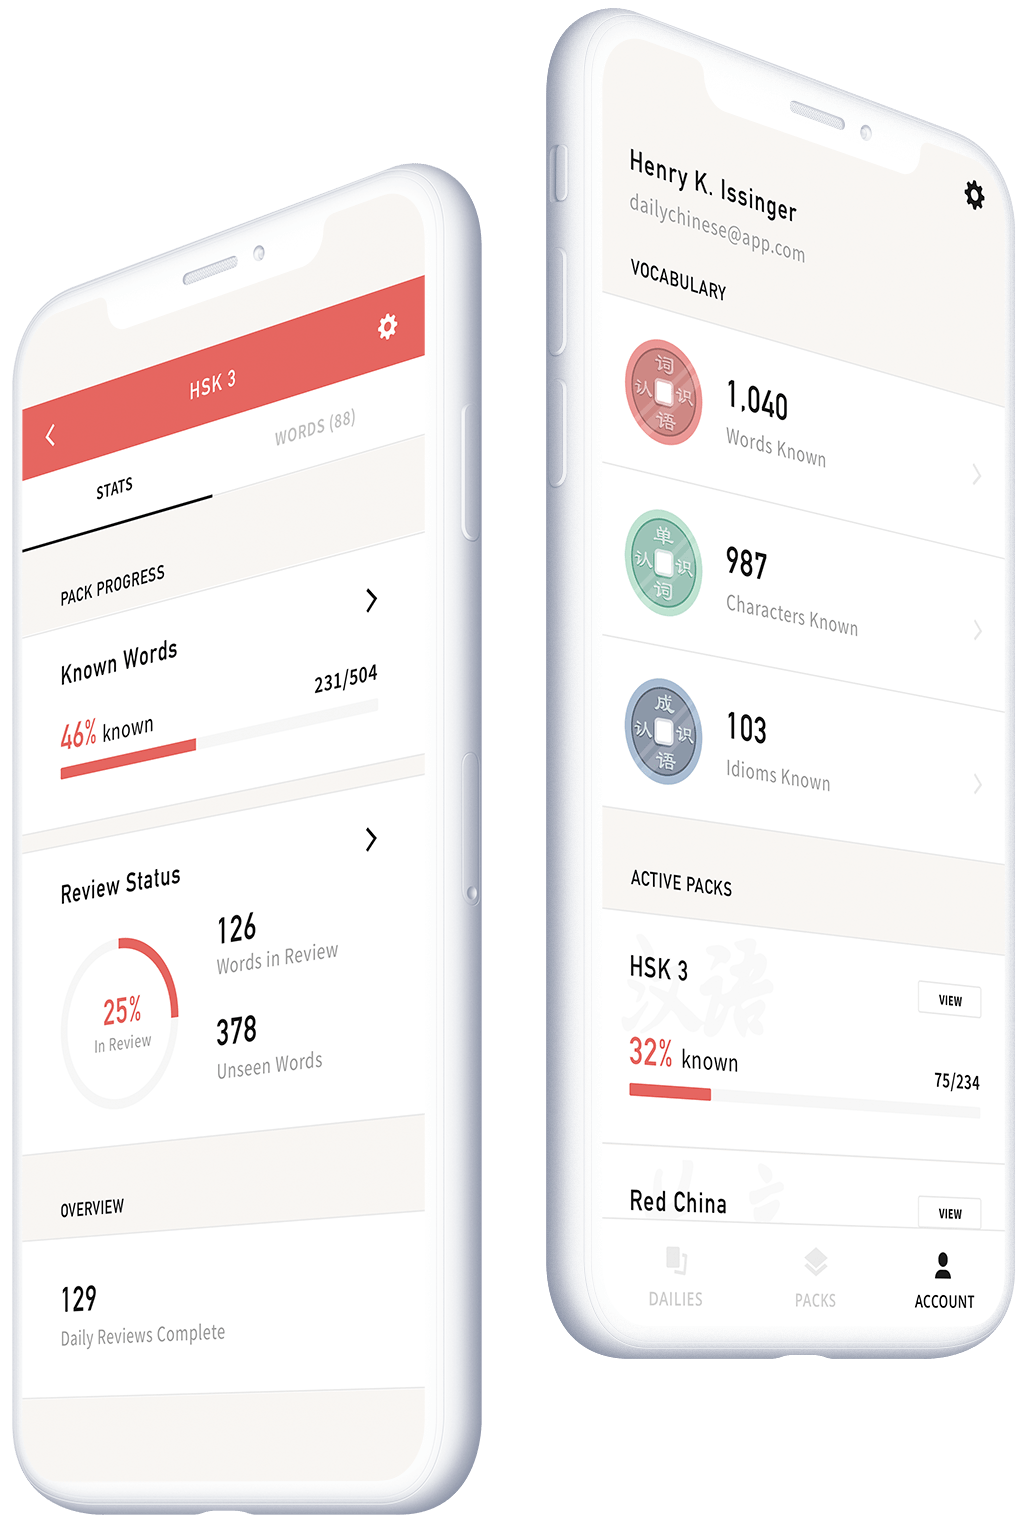
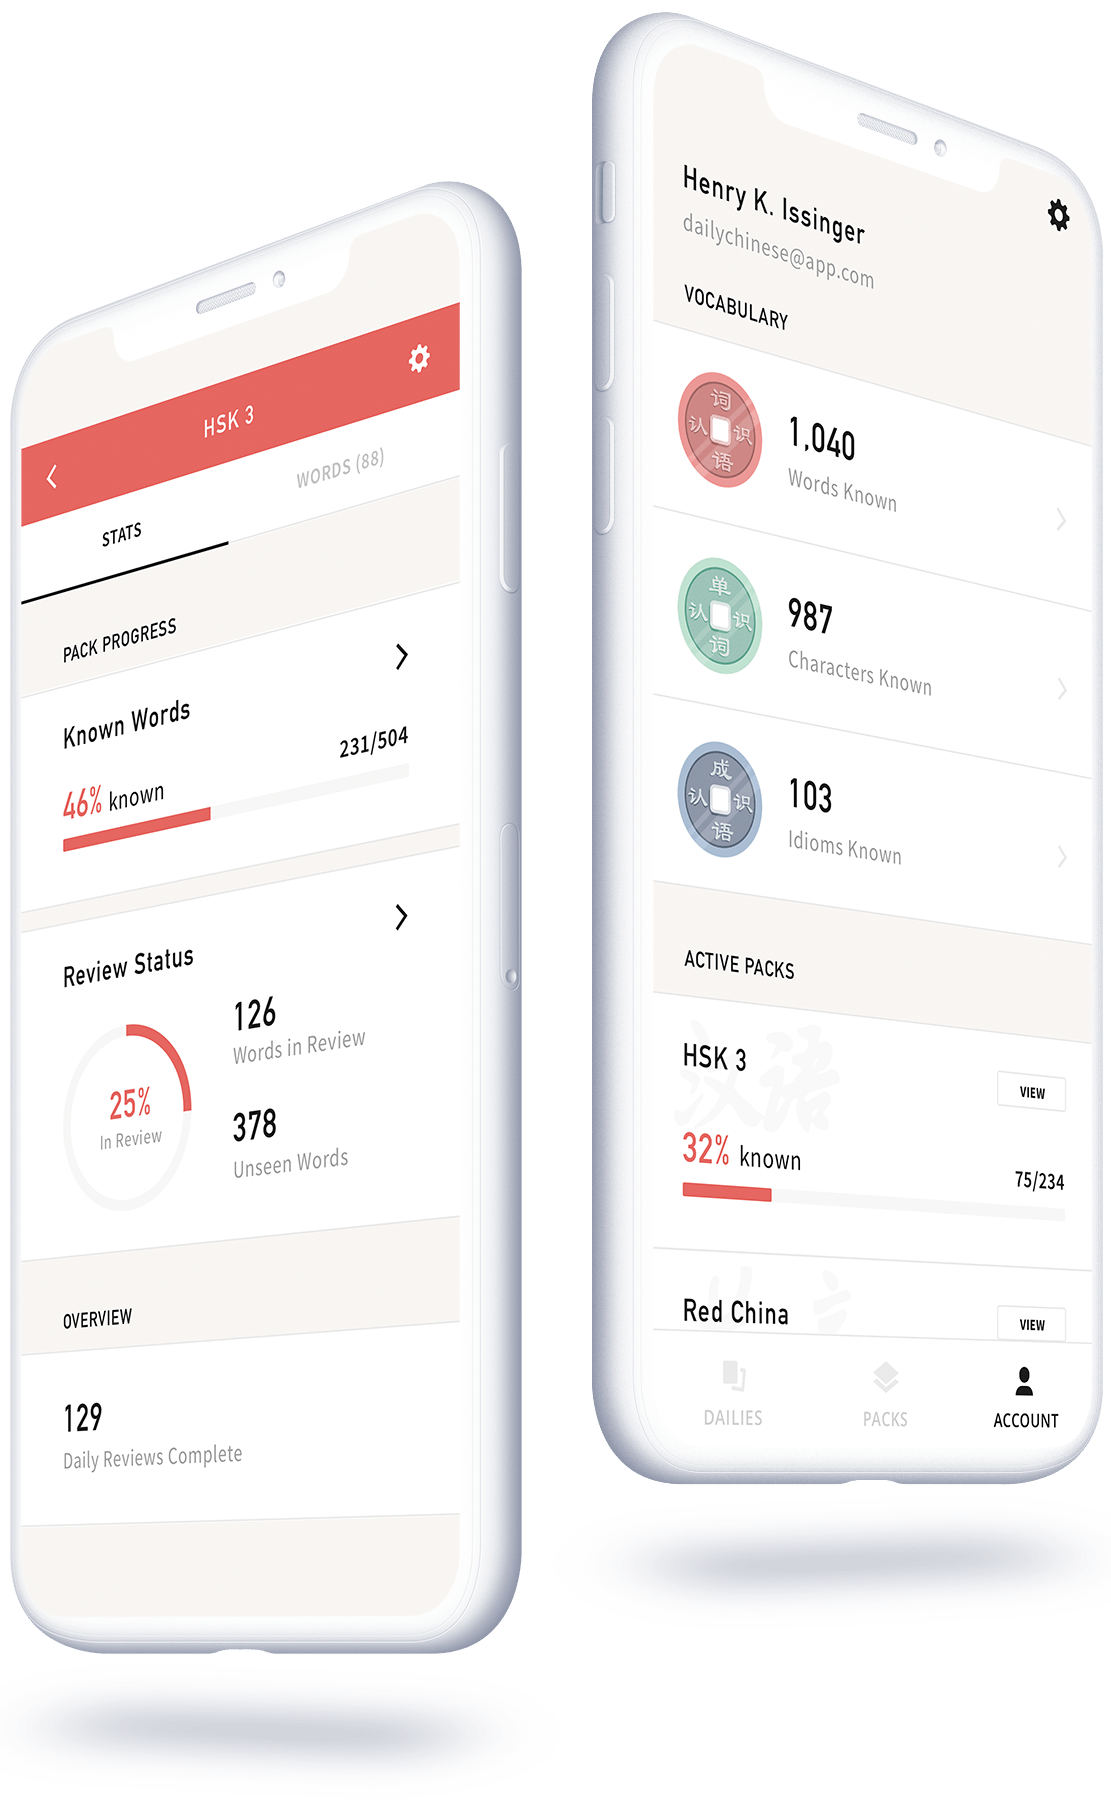
styling updates

diff --git a/index.html b/index.html
@@ -12,7 +12,7 @@
   <link rel="apple-touch-icon" href="icon.png">
   <!-- Place favicon.ico in the root directory -->
 
-  <link href="https://fonts.googleapis.com/css?family=Source+Sans+Pro" rel="stylesheet">
+  <link href="https://fonts.googleapis.com/css?family=Source+Sans+Pro:400,600" rel="stylesheet">
   <link rel="stylesheet" href="css/normalize.css">
   <link rel="stylesheet" href="css/main.css">
 </head>
@@ -30,10 +30,10 @@
       </header>
 
       <div class="copy-container">
-        <h1>Remember Chinese Characters Forever.</h1>
-        <p>Daily Chinese is a spaced-repetition, Chinese flashcard app that grows and tracks your vocabulary. Coming soon to both iOS and Android.</p>
+        <h1>Remember Chinese Characters Forever</h1>
+        <p>Daily Chinese is a spaced-repetition flashcard app that grows and tracks your Chinese vocabulary. Coming soon to both iOS and Android.</p>
         <a class="button" href="https://goo.gl/forms/OT01ZHoq39do9Far1" target="_blank">
-          Get Notified
+          Get Launch Email
       </a>
       </div>
 
@@ -46,41 +46,41 @@
   <!-- Description Section -->
   <section id="description" class="secondary-background">
     <div class="description-container">
-      <div>
+      <div class="description-title-block">
         <h2 class="text-center">
-          The essential Chinese vocabulary learning tool.
+          The Essential Chinese Vocabulary Tool
         </h2>
         <hr>
       </div>
 
       <div class="description-row">       
         <div class="description-block">
-          <img src="img/onboard_1@2x.png" width="260px" alt="">
+          <img src="img/onboard_1@2x.png" width="290px" alt="">
           <h3 class="text-center">
             Create Daily Reviews
           </h3>
           <p class="text-center">
-            Add word packs to make daily reviews. Reviewing every day will quickly grow your vocabulary.
+            Generate daily reviews from expertly assembled vocabulary lists. No more wasting time making flashcard decks.
           </p>          
         </div>
 
         <div class="description-block">
-          <img src="img/onboard_2@2x.png" width="260px" alt="">
+          <img src="img/onboard_2@2x.png" width="290px" alt="">
           <h3 class="text-center">
-            Spaced Repetition Formula
+            Practice With Purpose
           </h3>
           <p class="text-center">
-            A spaced repetition system increases the time between being shown each word so you never forget what you learn.
+            A spaced-repetition formula guides your daily practice so that you never forget the characters you learn.
           </p>          
         </div>
 
         <div class="description-block">
-          <img src="img/onboard_3@2x.png" width="260px" alt="">
+          <img src="img/onboard_3@2x.png" width="290px" alt="">
           <h3 class="text-center">
-            Own Your Vocabulary
+            Track Your Progress
           </h3>
           <p class="text-center">
-            The words you learn are stored, giving you a living collection of your total Chinese vocabulary.
+            Watch your vocabulary grow as the words and idioms you memorize are added to your vocabulary collection.
           </p>          
         </div>
 
@@ -94,11 +94,12 @@
 
       <div class="pack-row">
         <div class="copy-container">
-          <h2>
-            Learn Anything.
+          <p class="subtitle">Word Packs</p>
+          <h2 class="description-title">
+            For Every Learner
           </h2>
           <p>
-            Start with the basics, prepare for the HSK, or discover Chinese Internet slang. Whatever you want to learn, we’ve got you covered.
+            Start with the basics, prepare for the HSK, or discover Chinese Internet slang. We have unique and helpful vocabulary lists that you won't find anywhere else. 
           </p>
         </div>
 
@@ -107,11 +108,12 @@
 
       <div class="vocab-row">
         <div class="copy-container right-align">
-          <h2>
-            Own Your Vocabulary.
+          <p class="subtitle">Progress Tracking</p>
+          <h2 class="description-title">
+            Own Your Vocabulary
           </h2>
           <p>
-            Complete reviews to add words to your vocabulary collection and get insights into your review performance. 
+            Collect words, characters, and idioms by completing daily reviews. Monitor your review progress and always know the size of your vocabulary.
           </p>
         </div>
 
@@ -124,18 +126,18 @@
 
   <!-- CTA Row -->
   <section id="cta-row" class="secondary-background">
-    <div class="section-container">
-      <div class="cta-copy-block text-center">
-        <h2 class="text-center">
-          Start Mastering Chinese Characters.
+    <div class="section-container position-relative">
+      <div class="cta-copy-block">
+        <h2>
+          Start Mastering Chinese Characters
         </h2>
-        <p class="text-center">Launching soon on both iOS and Android.</p>
+        <p>Coming soon to both iOS and Android.</p>
         <a class="button" href="https://goo.gl/forms/OT01ZHoq39do9Far1" target="_blank">
-          Get Notified
+          Get Launch Email
         </a>
-        <div>
-          <!-- CTA -->
-        </div>
+        
+        <img class="cta-character-img position-absolute" src="img/copy-characters.png" alt="Start">
+
       </div>
     </div>
   </section>

diff --git a/css/main.css b/css/main.css
@@ -69,16 +69,16 @@
     text-transform: uppercase;
     margin: auto;
     color: #ffffff;
-    -moz-box-shadow: 0px 20px 40px 0px rgba(26,26,26,0.2);
-    -webkit-box-shadow: 0px 20px 40px 0px rgba(26,26,26,0.2);
-    box-shadow: 0px 20px 40px 0px rgba(26,26,26,0.2);
+    -moz-box-shadow: 0px 20px 35px 0px rgba(26,26,26,0.35);
+    -webkit-box-shadow: 0px 20px 35px 0px rgba(26,26,26,0.35);
+    box-shadow: 0px 20px 35px 0px rgba(26,26,26,0.35);
     transition: all .25s ease-in-out;
   }
 
   .button:hover {
-    -moz-box-shadow: 0px 25px 50px 0px rgba(26,26,26,0.25);
-    -webkit-box-shadow: 0px 25px 50px 0px rgba(26,26,26,0.25);
-    box-shadow: 0px 25px 50px 0px rgba(26,26,26,0.25);
+    -moz-box-shadow: 0px 25px 40px 0px rgba(26,26,26,0.35);
+    -webkit-box-shadow: 0px 25px 40px 0px rgba(26,26,26,0.35);
+    box-shadow: 0px 25px 40px 0px rgba(26,26,26,0.35);
   }
 
   .primary-background {
@@ -87,8 +87,8 @@
 
   .secondary-background {
     background-color: #ffffff;
-    border-top: 1px solid #EAEAEA;
-    border-bottom: 1px solid #EAEAEA;
+    /*border-top: 1px solid #EAEAEA;
+    border-bottom: 1px solid #EAEAEA*/;
   }
 
   .dark-background {
@@ -146,7 +146,7 @@
    ========================================================================== */
 
    .hero-section {
-    padding-bottom: 300px;
+    padding-bottom: 280px;
     overflow: hidden;
 
   }
@@ -162,7 +162,7 @@
   .hero-img-small {
     width: 1200px;
     bottom: -130px;
-    left: -290px;
+    right: -500px;
   }
 
   .hero-img-wide {
@@ -173,13 +173,14 @@
 
     .hero-section {
       overflow: visible;
+      padding-bottom: 310px;
     }
 
     .hero-section > .copy-container {
-      margin-top: 140px;
+      margin-top: 150px;
     }
 
-    .hero-section > .copy-container > a {
+    .hero-section > .copy-container > .button {
       margin-top: 20px
     }
 
@@ -188,9 +189,9 @@
     }
 
     .hero-img-wide {
-      width: 1100px;
-      bottom: -70px;
-      left: 450px;
+      width: 800px;
+      bottom: 15px;
+      left: 430px;
       display: block;
     }
 
@@ -203,7 +204,7 @@
    .description-container {
     margin: 0 auto;
     padding: 60px 2% 60px 2%;
-    max-width: 1200px;
+    max-width: 1300px;
   }
 
   .description-block {
@@ -215,6 +216,10 @@
     margin: 0 auto;
   }
 
+  .description-title-block > h2 {
+    margin-bottom: 16px;
+  }
+
   .description-block > h3 {
     margin-top: 30px;
     margin-bottom: 0;
@@ -224,6 +229,7 @@
     margin-top: 12px;
     color: #A0A0A0;
   }
+
 
   @media (min-width: 1000px) {
 
@@ -244,6 +250,10 @@
      max-width: 340px;
    }
 
+   .description-block > h3 {
+    margin-top: 42px;
+  }
+
  }
 
  @media (min-width: 800px) {
@@ -257,7 +267,7 @@
    ========================================================================== */
 
    .pack-row > .copy-container {
-    margin-bottom: 30px;
+    margin-bottom: 40px;
   }
 
   .packs-img {
@@ -290,7 +300,11 @@
 
    .vocab-row {
     margin-top: 50px;
-    margin-bottom: 30px;
+    margin-bottom: 40px;
+  }
+
+  .vocab-row > .copy-container {
+    margin-bottom: 10px; 
   }
 
   .vocab-img {
@@ -306,11 +320,14 @@
       display: flex;
       align-items: center;
       justify-content: space-between;
-      margin-bottom: 80px;
+      margin-bottom: 100px;
     }
 
     .vocab-img {
-      max-width: 500px;
+      position: relative;
+      top: 50px;
+      right: 20px;
+      max-width: 510px;
       margin: 0;
       -webkit-order: -1;
       -moz-order: -1;
@@ -335,7 +352,26 @@
 
   .cta-copy-block > a  {
     margin-top: 10px;
-    margin-bottom: 30px;
+    margin-bottom: 24px;
+  }
+
+  .cta-character-img {
+    width: 130px;
+    top: 90px;
+    right: 25px;
+  }
+
+  @media (min-width: 800px) {
+    
+    .cta-copy-block {
+      text-align: center;
+    }
+
+    .cta-character-img {
+      width: 150px;
+      right: 145px;
+      top: 75px;
+    }
   }
 
 /* ==========================================================================
@@ -366,6 +402,7 @@
    	font-family: 'din_alternatebold';
    	font-size: 24px;
    	line-height: 32px;
+
    }
 
    h3 {
@@ -376,6 +413,19 @@
    	font-family: 'Source Sans Pro', sans-serif;
    	font-size: 17px;
    	line-height: 26px;
+   }
+
+   .description-title {
+    margin-top: 0px;
+   }
+
+   .subtitle {
+    margin-bottom: 10px;
+    text-transform: uppercase;
+    letter-spacing: 3px;
+    font-weight: 600;
+    font-size: 13px;
+    color: #C9C9C9;
    }
 
    footer > p, a {
